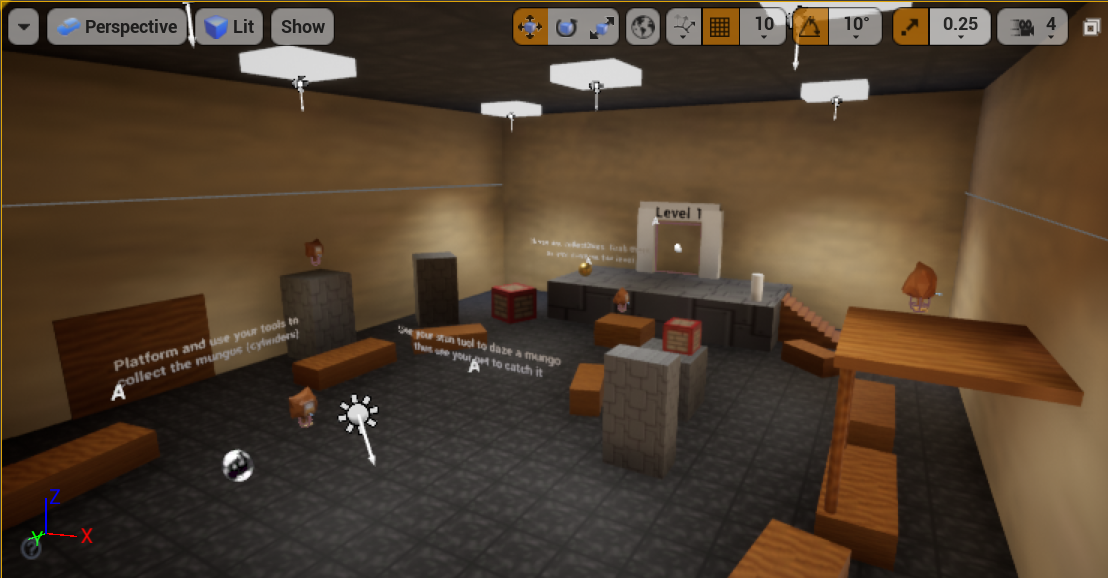
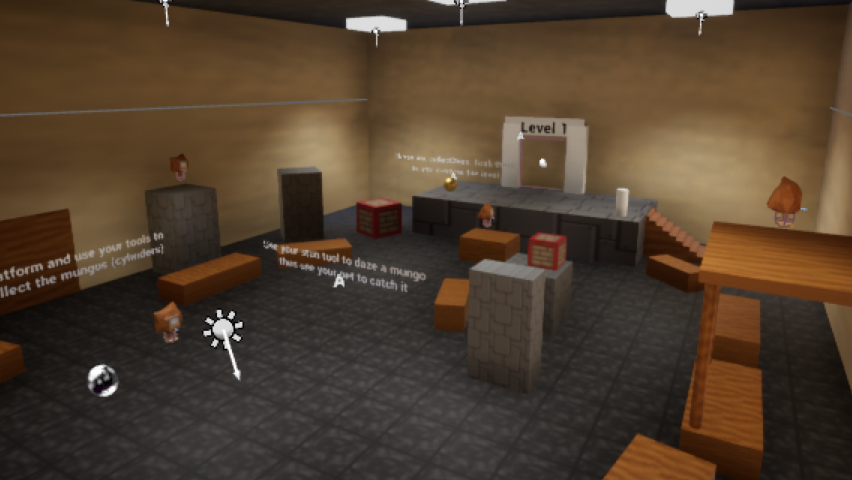
Added info for Funky Mungos

diff --git a/index.html b/index.html
@@ -35,7 +35,8 @@
                     <h2>About</h2>
                     <p>I'm a Game Design and Development student at RIT who is especially interested in the design
                         of singleplayer games that are driven by story and exploration. I have experience with art,
-                        programming, game design, and (especially) level design, so I could fill a lot of different roles.</p>
+                        programming, game design, and (especially) level design, so I could fill a lot of different
+                        roles.</p>
                 </div>
                 <div>
                     <h2>Other Info</h2>
@@ -71,6 +72,11 @@
                         <h3>Tower of Lumeth</h3>
                         <a href="#towerOfLumeth"><img src="media/tower-image1.png" alt="" class="smallScreenshot"></a>
                         <p>A puzzle game developed in 5 weeks in a group of 5.</p>
+                    </div>
+                    <div class="singleProject">
+                        <h3>Funky Mungos</h3>
+                        <a href="#funkyMungos"><img src="media/mungos-image-1.png" alt="" class="smallScreenshot"></a>
+                        <p>A short 3D platformer developed in 15 weeks in a group of 7.</p>
                     </div>
                 </div>
             </section>
@@ -144,8 +150,27 @@
         <section id="academicProjects">
             <h2>Academic Projects</h2>
             <p>Projects that were made for the purposes of schoolwork and display relevant skills.</p>
+            <section id="funkyMungos" class="projectSect">
+                <div class="info">
+                    <h3>Funky Mungos</h3>
+                    <p>A 3D collectathon platformer made in a team of 7 in Unreal Engine 4. The game includes one level
+                        and a hub area.</p>
+                    <p>My primary role in the project was level design. However, I also created low resolution textures to be
+                        used for the game's environments. During the early concept phase of the game I helped the team
+                        as we conceptualized the general game loop and movement mechanics.</p>
+                    <p>While working on this project I used both paper level sketches and in-engine iteration to create
+                        a level and hub area for the game. Throughout the process I used UE4's terrain tools, primitive
+                        objects, free assets found online, and objects created by other team members. I also worked with
+                        gameplay programmers on concepts for additional objects for players to interact with.</p>
+                    <p></p>
+                </div>
+                <div class="screenshots">
+                    <img src="media/mungos-image-1.png" alt="">
+                    <img src="media/mungos-image-2.png" alt="">
+                </div>
+            </section>
             <section id="cheeseMaster" class="projectSect">
-                <div>
+                <div class="info">
                     <h3>Cheese Master</h3>
                     <p>A game developed solo over the course of 2 weeks using Javascript, PIXI JS, and Howler. </p>
                     <p>A top down action adventure game with 5 levels. The game is centered around a dash mechanic which
@@ -166,13 +191,13 @@
                     <h4>Link to the game</h4>
                     <p>Available to play on <a href="https://lackofbeef.itch.io/cheese-master">itch.io</a></p>
                 </div>
-                <div class="screenshots" id="cheeseMasterScreenshots">
+                <div class="screenshots">
                     <img src="media/cheesemaster-screenshot1.png" alt="">
                     <img src="media/cheesemaster-screenshot2.png" alt="">
                 </div>
             </section>
             <section id="towerOfLumeth" class="projectSect">
-                <div>
+                <div class="info">
                     <h3>Tower of Lumeth</h3>
                     <p>A puzzle game developed in 5 weeks in a team of 5. </p>
                     <p>A top down block pushing puzzle game with 14 levels and 4 special abilities.</p>

diff --git a/css/style.css b/css/style.css
@@ -221,9 +221,6 @@ div#artDisplay {
     justify-content: center;
 }
 
-section.projectSect {
-    border-top: 1px solid black;
-}
 section#overview ,section#personalProjects, section#academicProjects, section#artwork {
     border: 2px solid black;
     padding: 1rem;
@@ -232,9 +229,10 @@ section#overview ,section#personalProjects, section#academicProjects, section#ar
 }
 
 .projectSect {
+    border-top: 1px solid black;
     display: flex;
     flex-flow: row;
-    align-items: flex-start;
+    align-items: start;
     height: fit-content;
 }
 
@@ -242,7 +240,12 @@ section#overview ,section#personalProjects, section#academicProjects, section#ar
     margin: 0.5rem 0.5rem 0.5rem 0.5rem;
 }
 
+.projectSect .info {
+    flex-grow: 1;
+}
+
 .screenshots {
+    flex-grow: 0;
     display: flex;
     flex-flow: column;
     background-color:#e0e0e0;
